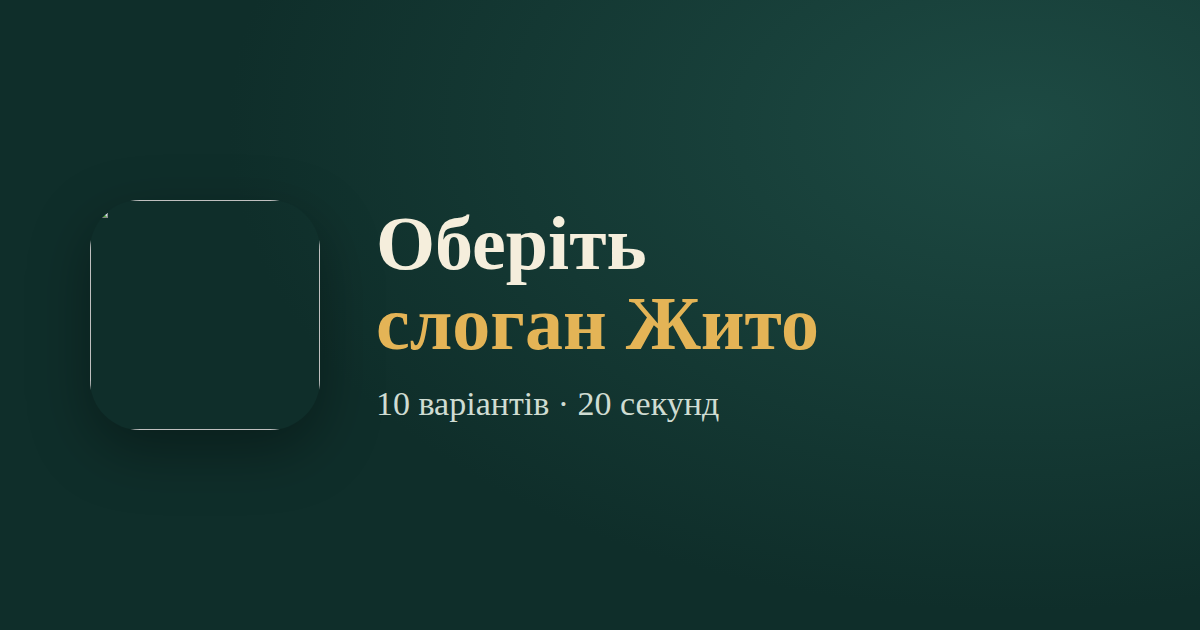
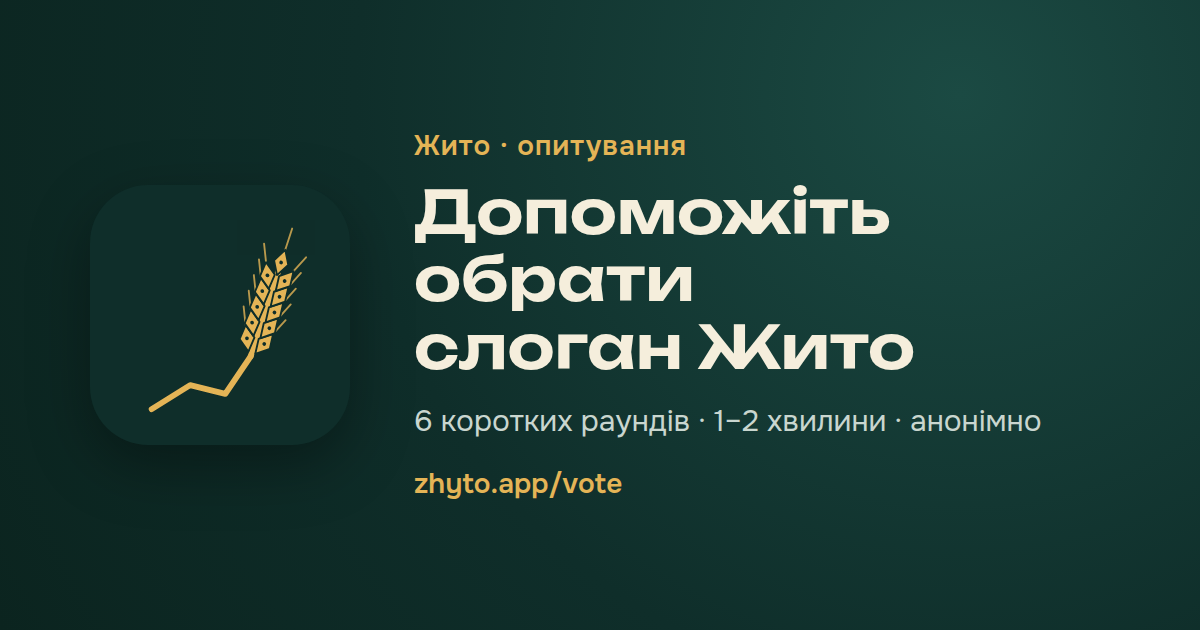
Vote share card: real mark and brand fonts embedded; one wording everywhere (6 short rounds, 1-2 minutes)
Claude-Session: https://claude.ai/code/session_017bgh63Wu3jyhiFrDj5mr5J

diff --git a/vote/index.html b/vote/index.html
@@ -4,11 +4,11 @@
 <meta charset="utf-8">
 <meta name="viewport" content="width=device-width, initial-scale=1">
 <title>Оберіть слоган Жито</title>
-<meta name="description" content="Допоможіть обрати слоган для українського застосунку бюджету. 1–2 хвилини.">
+<meta name="description" content="Допоможіть обрати слоган для українського застосунку бюджету: 6 коротких раундів, 1–2 хвилини, анонімно.">
 <meta name="robots" content="noindex">
 <meta property="og:title" content="Допоможіть обрати слоган Жито">
-<meta property="og:description" content="Українська команда робить застосунок для бюджету. 1–2 хвилини.">
-<meta property="og:image" content="https://zhyto.app/vote/og.png">
+<meta property="og:description" content="Українська команда робить застосунок для бюджету. 6 коротких раундів, 1–2 хвилини, анонімно.">
+<meta property="og:image" content="https://zhyto.app/vote/og.png?v=2">
 <meta property="og:url" content="https://zhyto.app/vote/">
 <meta name="twitter:card" content="summary_large_image">
 <meta name="theme-color" content="#0F2E2A">
@@ -46,7 +46,7 @@ input.t{width:100%;padding:13px 14px;border-radius:12px;border:1px solid var(--l
 
   <section class="step on" id="s0">
     <h1>Допоможіть обрати слоган</h1>
-    <p class="lead">Ми — невелика українська команда, робимо Жито: застосунок, який веде бюджет майже сам. Обираємо фразу біля логотипа. 1–2 хвилини, анонімно.</p>
+    <p class="lead">Ми — невелика українська команда, робимо Жито: застосунок, який веде бюджет майже сам. Обираємо фразу біля логотипа. 6 коротких раундів, 1–2 хвилини, анонімно.</p>
     <button class="btn" data-next>Почати</button>
   </section>
 
@@ -144,7 +144,7 @@ input.t{width:100%;padding:13px 14px;border-radius:12px;border:1px solid var(--l
       .catch(function () { b.disabled = false; alert('Не вдалося надіслати. Спробуйте ще раз.'); });
   };
   document.getElementById('share').onclick = function () {
-    var d = { title: 'Оберіть слоган Жито', text: 'Допоможи обрати слоган для українського застосунку бюджету — 1–2 хвилини', url: 'https://zhyto.app/vote/' };
+    var d = { title: 'Оберіть слоган Жито', text: 'Допоможи обрати слоган для українського застосунку бюджету — 6 коротких раундів, 1–2 хвилини', url: 'https://zhyto.app/vote/' };
     if (navigator.share) navigator.share(d).catch(function () {}); else { navigator.clipboard && navigator.clipboard.writeText(d.url); alert('Посилання скопійовано'); }
   };
 })();
